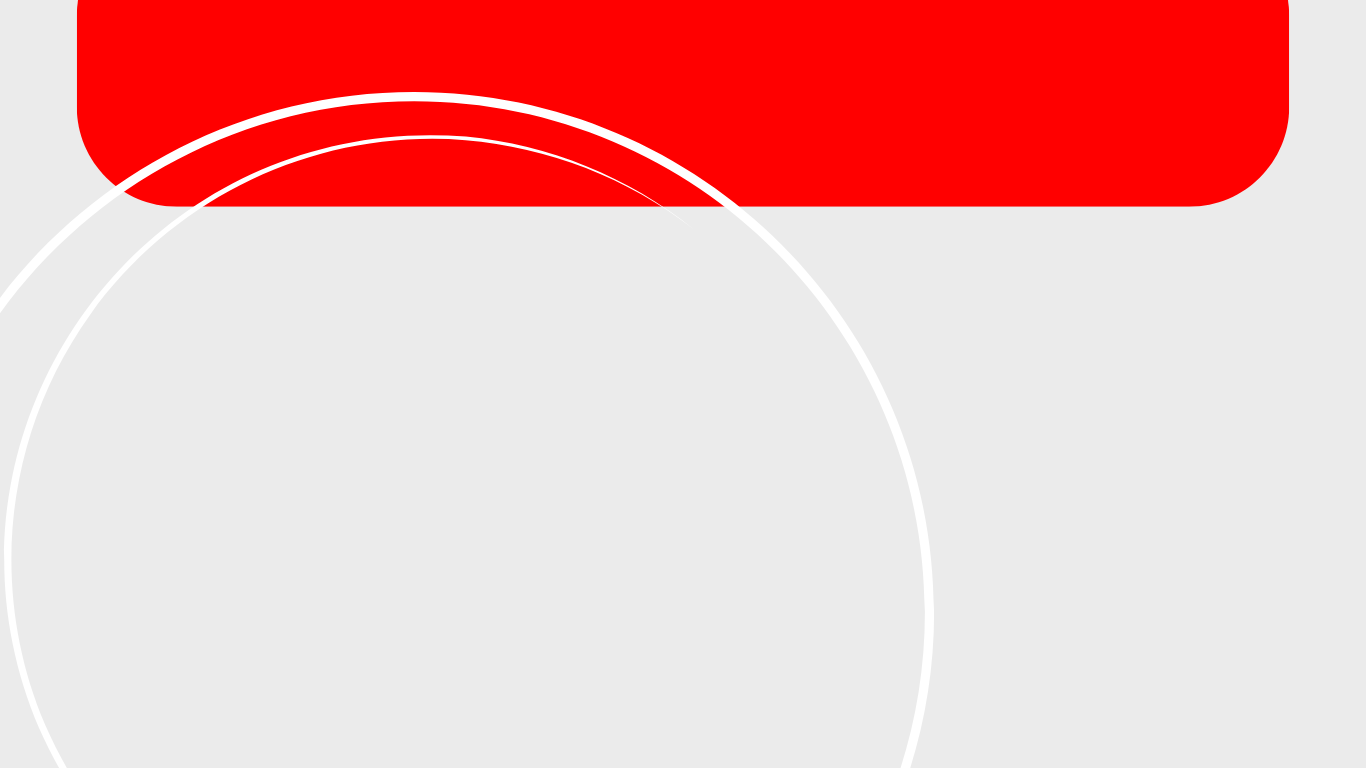
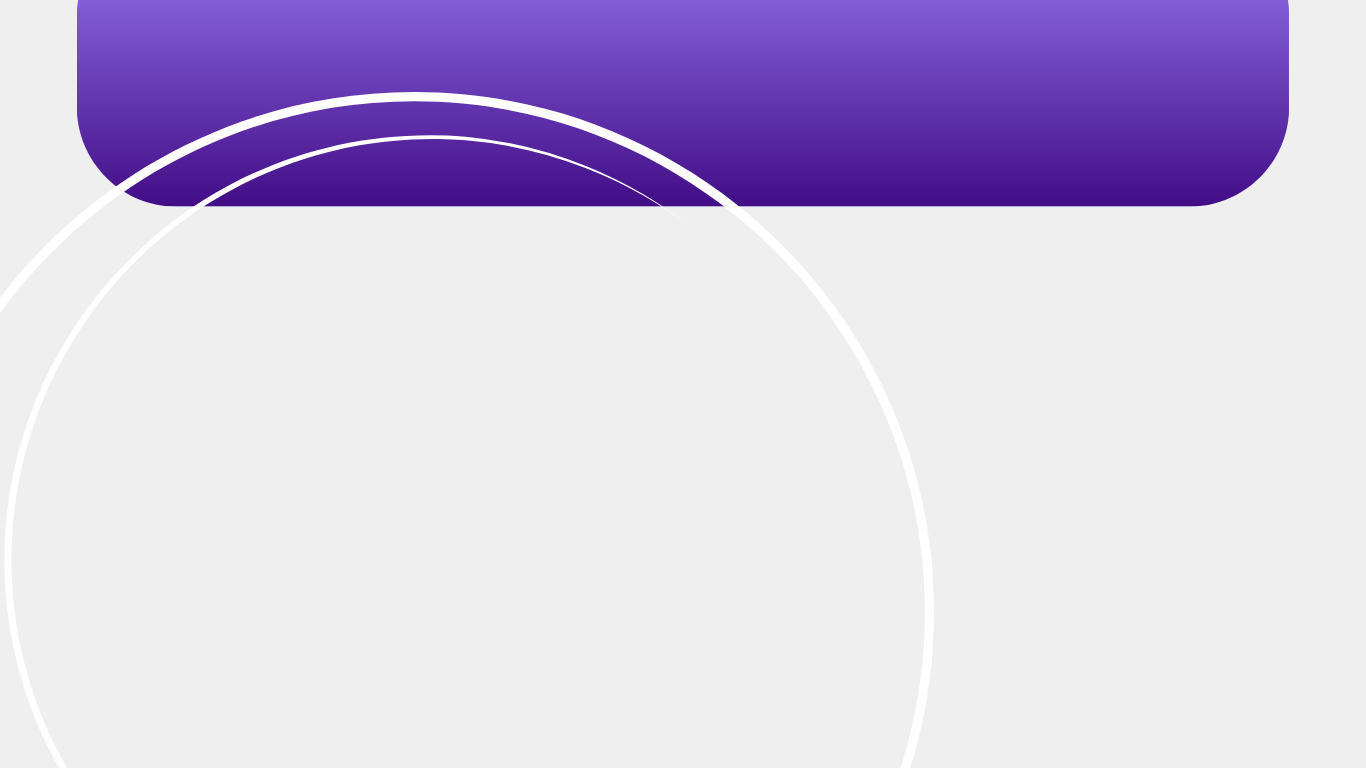
Atualizações principais das telas.

Changed region(s): [[0.0307, 0.0, 0.9531, 0.2812]]

diff --git a/HTML/tela_inicio.html b/HTML/tela_inicio.html
@@ -28,26 +28,26 @@
                     </a>
                 </li>
                 <li class="nav-item">
-                    <a class="nav-link" href="tela_vendas.html">
-                        <img src="../img/icones/Icon_VendasVermelho.png" alt="Vendas" class="icon-menu">
-                        <span>Vendas</span>
+                    <a class="nav-link" href="tela_receitas.html">
+                        <img src="../img/icones/Icon_ReceitasRoxo.png" alt="Receitas" class="icon-menu">
+                        <span>Receitas</span>
                     </a>
                 </li>
                 <li class="nav-item">
-                    <a class="nav-link" href="tela_produtos.html">
-                        <img src="../img/icones/Icon_ProdutosVermelho.png" alt="Produtos" class="icon-menu">
-                        <span>Produtos</span>
+                    <a class="nav-link" href="tela_despesas.html">
+                        <img src="../img/icones/Icon_DespesasRoxo.png" alt="Despesas" class="icon-menu">
+                        <span>Despesas</span>
                     </a>
                 </li>
                 <li class="nav-item">
-                    <a class="nav-link" href="tela_campanhas.html">
-                        <img src="../img/icones/Icon_CampanhasVermelho.png" alt="Campanhas" class="icon-menu">
-                        <span>Campanhas</span>
+                    <a class="nav-link" href="tela_sonhos.html">
+                        <img src="../img/icones/Icon_SonhosRoxo.png" alt="Sonhos" class="icon-menu">
+                        <span>Sonhos</span>
                     </a>
                 </li>
                 <li class="nav-item">
                     <a class="nav-link" href="tela_perfil.html">
-                        <img src="../img/icones/Icon_PerfilVermelho.png" alt="Perfil" class="icon-menu">
+                        <img src="../img/icones/Icon_PerfilRoxo.png" alt="Perfil" class="icon-menu">
                         <span>Perfil</span>
                     </a>
                 </li>
@@ -86,7 +86,7 @@
             <div class="row mt-4 flex-grow-1">
                 <div class="col-md-6">
                     <div class="bloco-conteudo bloco-grafico">
-                        <div class="card-header text-center">Vendas</div>
+                        <div class="card-header text-center">Receitas</div>
                         <div class="card-body">
                             <canvas id="graficoVendas"></canvas>
                         </div>
@@ -94,7 +94,7 @@
                 </div>
                 <div class="col-md-6">
                     <div class="bloco-conteudo bloco-grafico">
-                        <div class="card-header text-center">Custos</div>
+                        <div class="card-header text-center">Despesas</div>
                         <div class="card-body">
                             <canvas id="graficoCustos"></canvas>
                         </div>
@@ -106,7 +106,7 @@
             <div class="row mt-4 flex-grow-1">
                 <div class="col-md-12">
                     <div class="bloco-conteudo bloco-campanhas-inicio">
-                        <div class="card-header">Campanhas Ativas</div>
+                        <div class="card-header">Sonhos</div>
                         <div id="campanhasCarrossel" class="carousel slide" data-bs-ride="carousel">
                             <div class="carousel-inner bloco-campanhas-inicio-designer">
                                 <div class="carousel-item active">
@@ -165,8 +165,9 @@
             <!-- Div para Botões Criar Campanha e Adicionar Produto -->
             <div class="row mt-4 flex-grow-1">
                 <div class="col-md-12 text-rigth">
-                    <button class="btn btn-custom-secundario">Criar Campanha</button>
-                    <button class="btn btn-custom-secundario">Adicionar Produto</button>
+                    <button class="btn btn-custom-secundario">Adicionar Receita</button>
+                    <button class="btn btn-custom-secundario">Adicionar Despesa</button>
+                    <button class="btn btn-custom-secundario">Adicionar Sonhos</button>
                 </div>
             </div>
         </div>

diff --git a/css/styles.css b/css/styles.css
@@ -6,7 +6,7 @@
     /* Cores do Site */
         /* Cores dos Conteúdos */
             /* Cores */
-            --cor-fundo: #d60000; /* Vermelho iFood */
+            --cor-fundo: #8c52ff; /* Vermelho iFood */
             /* Imagens */
             --imagem-fundo-capa: url('../img/Fundo_Capa.png');
             --imagem-fundo_telas_iniciais: url('../img/Fundo_TelasIniciais.png');
@@ -25,24 +25,24 @@
             /* Cores dos Botôes */
             --cor-botao-fundo_cinza_claro: #e5e5e5; /* Fundo cinza claro dos botões */
             --cor-botao-fundo_branco: white; /* Fundo cinza claro dos botões */
-            --cor-botao-fundo_vermelho: #ff0000; /* Fundo cinza claro dos botões */
+            --cor-botao-fundo_vermelho: #8c52ff; /* Fundo cinza claro dos botões */
             --cor-botao-fundo_azul_claro: #5699FE; /* Fundo cinza claro dos botões */
             --cor-botao-fundo_verde_claro: #00A811; /* Fundo cinza claro dos botões */
             --cor-botao-fundo_preto: black; /* Fundo cinza claro dos botões */
 
             --cor-botao-texto_preto: black; /* Texto preto dos botões */
             --cor-botao-texto_branco: white; /* Texto preto dos botões */
-            --cor-botao-texto_vermelho: #d60000; /* Texto preto dos botões */ 
+            --cor-botao-texto_vermelho: #8c52ff; /* Texto preto dos botões */ 
 
             --cor-botao-hover_cinza_escuro: #b3b3b3; /* Cor de fundo dos botões ao passar o mouse */
-            --cor-botao-hover_vermelho_escuro: #970000; /* Cor de fundo dos botões ao passar o mouse */
+            --cor-botao-hover_vermelho_escuro: #3701a2; /* Cor de fundo dos botões ao passar o mouse */
             --cor-botao-hover_azul_escuro: #0059AB; /* Cor de fundo dos botões ao passar o mouse */
             --cor-botao-hover_verde_escuro: #1C5900; /* Cor de fundo dos botões ao passar o mouse */
             /* FIM - Cores dos Botôes */
             
             /* Cores dos Conteúdos */
             --cor-fundo-conteudos_branco: white; /* Cor de fundo de alguns conteudos nas telas */
-            --cor-fundo-conteudos_vermelho: #d60000; /* Cor de fundo de alguns conteudos nas telas */
+            --cor-fundo-conteudos_vermelho: #8c52ff; /* Cor de fundo de alguns conteudos nas telas */
             --cor-fundo-conteudos_preto: black; /* Cor de fundo de alguns conteudos nas telas */
             --cor-fundo-conteudos_vermelho_claro:  rgba(255, 0, 0, 0.1);
 
@@ -68,9 +68,9 @@
             --cor-fundo-menu: white; /* Fundo do menu lateral */
 
             /* Cores Fundo Botão */
-            --cor-fundo-item-selecionado: #d60000; /* Fundo do item ativo no menu */
+            --cor-fundo-item-selecionado: #8c52ff; /* Fundo do item ativo no menu */
             --cor-fundo-item-nao-seleciona: white; /* Fundo do item ativo no menu */
-            --cor-hover-fundo-item-nao-selecionado: rgb(250, 225, 225); /* Fundo do item ativo no menu */           
+            --cor-hover-fundo-item-nao-selecionado: rgb(237, 225, 250); /* Fundo do item ativo no menu */           
 
             /* Cores dos Textos */
             --cor-texto-item-selecionado: white; /* Texto do item ativo no menu */

diff --git a/HTML/tela_sonhos.html b/HTML/tela_sonhos.html
@@ -3,7 +3,7 @@
 <head>
     <meta charset="UTF-8">
     <meta name="viewport" content="width=device-width, initial-scale=1.0">
-    <title>Início</title>
+    <title>Sonhos</title>
     
     <!-- Importando o CSS do Bootstrap via CDN -->
     <link href="https://cdn.jsdelivr.net/npm/bootstrap@5.1.3/dist/css/bootstrap.min.css" rel="stylesheet">
@@ -24,31 +24,31 @@
             <ul class="nav flex-column">
                 <li class="nav-item">
                     <a class="nav-link" href="tela_inicio.html">
-                        <img src="../img/icones/Icon_InicioVermelho.png" alt="Início" class="icon-menu">
+                        <img src="../img/icones/Icon_InicioRoxo.png" alt="Início" class="icon-menu">
                         <span>Início</span>
                     </a>
                 </li>
                 <li class="nav-item">
-                    <a class="nav-link" href="tela_vendas.html">
-                        <img src="../img/icones/Icon_VendasVermelho.png" alt="Vendas" class="icon-menu">
-                        <span>Vendas</span>
+                    <a class="nav-link" href="tela_receitas.html">
+                        <img src="../img/icones/Icon_ReceitasRoxo.png" alt="Receitas" class="icon-menu">
+                        <span>Receitas</span>
                     </a>
                 </li>
                 <li class="nav-item">
-                    <a class="nav-link" href="tela_produtos.html">
-                        <img src="../img/icones/Icon_ProdutosVermelho.png" alt="Produtos" class="icon-menu">
-                        <span>Produtos</span>
+                    <a class="nav-link" href="tela_despesas.html">
+                        <img src="../img/icones/Icon_DespesasRoxo.png" alt="Despesas" class="icon-menu">
+                        <span>Despesas</span>
                     </a>
                 </li>
                 <li class="nav-item">
-                    <a class="nav-link item-menu-selecionado-campanha" href="tela_campanhas.html">
-                        <img src="../img/icones/Icon_CampanhasBranco.png" alt="Campanhas" class="icon-menu" width="100">
-                        <span>Campanhas</span>
+                    <a class="nav-link item-menu-selecionado-campanha">
+                        <img src="../img/icones/Icon_SonhosBranco.png" alt="Sonhos" class="icon-menu" width="100">
+                        <span>Sonhos</span>
                     </a>
                 </li>
                 <li class="nav-item">
                     <a class="nav-link" href="tela_perfil.html">
-                        <img src="../img/icones/Icon_PerfilVermelho.png" alt="Perfil" class="icon-menu">
+                        <img src="../img/icones/Icon_PerfilRoxo.png" alt="Perfil" class="icon-menu">
                         <span>Perfil</span>
                     </a>
                 </li>

diff --git a/HTML/tela_despesas.html b/HTML/tela_despesas.html
@@ -3,7 +3,7 @@
 <head>
     <meta charset="UTF-8">
     <meta name="viewport" content="width=device-width, initial-scale=1.0">
-    <title>Produtos</title>
+    <title>Despesas</title>
     
     <!-- Importando o CSS do Bootstrap via CDN -->
     <link href="https://cdn.jsdelivr.net/npm/bootstrap@5.1.3/dist/css/bootstrap.min.css" rel="stylesheet">
@@ -24,31 +24,31 @@
             <ul class="nav flex-column">
                 <li class="nav-item">
                     <a class="nav-link" href="tela_inicio.html">
-                        <img src="../img/icones/Icon_InicioVermelho.png" alt="Início" class="icon-menu">
+                        <img src="../img/icones/Icon_InicioRoxo.png" alt="Início" class="icon-menu">
                         <span>Início</span>
                     </a>
                 </li>
                 <li class="nav-item">
-                    <a class="nav-link" href="tela_vendas.html">
-                        <img src="../img/icones/Icon_VendasVermelho.png" alt="Vendas" class="icon-menu">
-                        <span>Vendas</span>
+                    <a class="nav-link" href="tela_receitas.html">
+                        <img src="../img/icones/Icon_ReceitasRoxo.png" alt="Receitas" class="icon-menu">
+                        <span>Receitas</span>
                     </a>
                 </li>
                 <li class="nav-item">
-                    <a class="nav-link item-menu-selecionado" href="tela_produtos.html">
-                        <img src="../img/icones/Icon_ProdutosBranco.png" alt="Produtos" class="icon-menu">
-                        <span>Produtos</span>
+                    <a class="nav-link item-menu-selecionado">
+                        <img src="../img/icones/Icon_DespesasBranco.png" alt="Despesas" class="icon-menu">
+                        <span>Despesas</span>
                     </a>
                 </li>
                 <li class="nav-item">
-                    <a class="nav-link" href="tela_campanhas.html">
-                        <img src="../img/icones/Icon_CampanhasVermelho.png" alt="Campanhas" class="icon-menu">
-                        <span>Campanhas</span>
+                    <a class="nav-link" href="tela_sonhos.html">
+                        <img src="../img/icones/Icon_SonhosRoxo.png" alt="Sonhos" class="icon-menu">
+                        <span>Sonhos</span>
                     </a>
                 </li>
                 <li class="nav-item">
                     <a class="nav-link" href="tela_perfil.html">
-                        <img src="../img/icones/Icon_PerfilVermelho.png" alt="Perfil" class="icon-menu">
+                        <img src="../img/icones/Icon_PerfilRoxo.png" alt="Perfil" class="icon-menu">
                         <span>Perfil</span>
                     </a>
                 </li>

diff --git a/HTML/tela_receitas.html b/HTML/tela_receitas.html
@@ -3,7 +3,7 @@
 <head>
     <meta charset="UTF-8">
     <meta name="viewport" content="width=device-width, initial-scale=1.0">
-    <title>Vendas</title>
+    <title>Receitas</title>
     
     <!-- Importando o CSS do Bootstrap via CDN -->
     <link href="https://cdn.jsdelivr.net/npm/bootstrap@5.1.3/dist/css/bootstrap.min.css" rel="stylesheet">
@@ -24,31 +24,31 @@
             <ul class="nav flex-column">
                 <li class="nav-item">
                     <a class="nav-link" href="tela_inicio.html">
-                        <img src="../img/icones/Icon_InicioVermelho.png" alt="Início" class="icon-menu">
+                        <img src="../img/icones/Icon_InicioRoxo.png" alt="Início" class="icon-menu">
                         <span>Início</span>
                     </a>
                 </li>
                 <li class="nav-item">
                     <a class="nav-link item-menu-selecionado">
-                        <img src="../img/icones/Icon_VendasBranco.png" alt="Vendas" class="icon-menu">
-                        <span>Vendas</span>
+                        <img src="../img/icones/Icon_ReceitasBranco.png" alt="Receitas" class="icon-menu">
+                        <span>Receitas</span>
                     </a>
                 </li>
                 <li class="nav-item">
-                    <a class="nav-link" href="tela_produtos.html">
-                        <img src="../img/icones/Icon_ProdutosVermelho.png" alt="Produtos" class="icon-menu">
-                        <span>Produtos</span>
+                    <a class="nav-link" href="tela_despesas.html">
+                        <img src="../img/icones/Icon_DespesasRoxo.png" alt="Despesas" class="icon-menu">
+                        <span>Despesas</span>
                     </a>
                 </li>
                 <li class="nav-item">
-                    <a class="nav-link" href="tela_campanhas.html">
-                        <img src="../img/icones/Icon_CampanhasVermelho.png" alt="Campanhas" class="icon-menu">
-                        <span>Campanhas</span>
+                    <a class="nav-link" href="tela_sonhos.html">
+                        <img src="../img/icones/Icon_SonhosRoxo.png" alt="Sonhos" class="icon-menu">
+                        <span>Sonhos</span>
                     </a>
                 </li>
                 <li class="nav-item">
                     <a class="nav-link" href="tela_perfil.html">
-                        <img src="../img/icones/Icon_PerfilVermelho.png" alt="Perfil" class="icon-menu">
+                        <img src="../img/icones/Icon_PerfilRoxo.png" alt="Perfil" class="icon-menu">
                         <span>Perfil</span>
                     </a>
                 </li>

diff --git a/HTML/tela_perfil.html b/HTML/tela_perfil.html
@@ -24,30 +24,30 @@
             <ul class="nav flex-column">
                 <li class="nav-item">
                     <a class="nav-link" href="tela_inicio.html">
-                        <img src="../img/icones/Icon_InicioVermelho.png" alt="Início" class="icon-menu">
+                        <img src="../img/icones/Icon_InicioRoxo.png" alt="Início" class="icon-menu">
                         <span>Início</span>
                     </a>
                 </li>
                 <li class="nav-item">
-                    <a class="nav-link" href="tela_vendas.html">
-                        <img src="../img/icones/Icon_VendasVermelho.png" alt="Vendas" class="icon-menu">
-                        <span>Vendas</span>
+                    <a class="nav-link" href="tela_receitas.html">
+                        <img src="../img/icones/Icon_ReceitasRoxo.png" alt="Receitas" class="icon-menu">
+                        <span>Receitas</span>
                     </a>
                 </li>
                 <li class="nav-item">
-                    <a class="nav-link" href="tela_produtos.html">
-                        <img src="../img/icones/Icon_ProdutosVermelho.png" alt="Produtos" class="icon-menu">
-                        <span>Produtos</span>
+                    <a class="nav-link" href="tela_despesas.html">
+                        <img src="../img/icones/Icon_DespesasRoxo.png" alt="Despesas" class="icon-menu">
+                        <span>Despesas</span>
                     </a>
                 </li>
                 <li class="nav-item">
-                    <a class="nav-link" href="tela_campanhas.html">
-                        <img src="../img/icones/Icon_CampanhasVermelho.png" alt="Campanhas" class="icon-menu">
-                        <span>Campanhas</span>
+                    <a class="nav-link" href="tela_sonhos.html">
+                        <img src="../img/icones/Icon_SonhosRoxo.png" alt="Sonhos" class="icon-menu">
+                        <span>Sonhos</span>
                     </a>
                 </li>
                 <li class="nav-item">
-                    <a class="nav-link item-menu-selecionado" href="tela_perfil.html">
+                    <a class="nav-link item-menu-selecionado">
                         <img src="../img/icones/Icon_PerfilBranco.png" alt="Perfil" class="icon-menu">
                         <span>Perfil</span>
                     </a>

diff --git a/HTML/index.html b/HTML/index.html
@@ -16,9 +16,7 @@
     <div class="container-fluid tela-apresentacao">
         <!-- Título da página com a fonte Parceiros -->
         <div class="titulo">
-            <h1>Parceiros</h1>
-            <!-- Logo do IFood abaixo do título -->
-            <img src="../img/Logo_Branco.png" alt="IFood" class="logo-ifood">
+            <h1>KeroMoney</h1>
         </div>
         <!-- Botões de ação com fonte Inter -->
         <div class="acoes">
